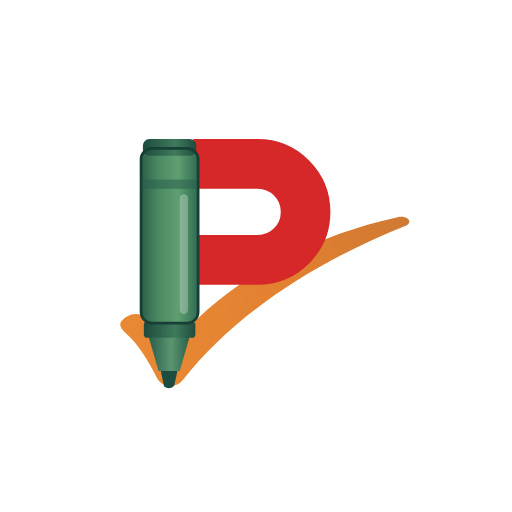
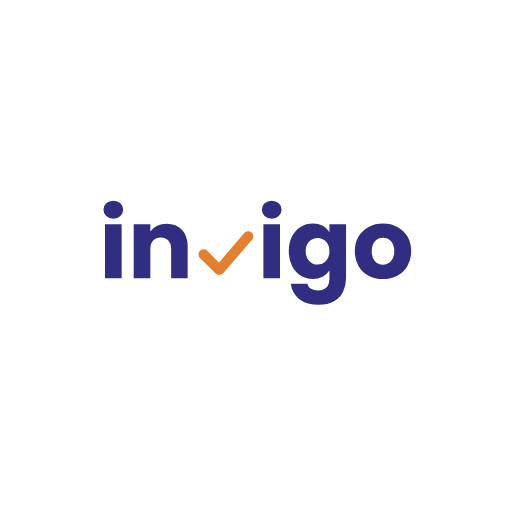
Add files via upload

Changed region(s): [[0.1875, 0.25, 0.8125, 0.7812]]

diff --git a/dashboard.html b/dashboard.html
@@ -3,50 +3,49 @@
 <head>
   <meta charset="utf-8">
   <meta name="viewport" content="width=device-width, initial-scale=1, viewport-fit=cover">
-  <title>Proctcher רכזת</title>
-  <meta name="theme-color" content="#114b3c">
+  <title>Invigo רכזת</title>
+  <meta name="theme-color" content="#312e81">
   <meta name="apple-mobile-web-app-capable" content="yes">
   <meta name="mobile-web-app-capable" content="yes">
-  <meta name="apple-mobile-web-app-title" content="Proctcher רכזת">
+  <meta name="apple-mobile-web-app-title" content="Invigo רכזת">
   <meta name="apple-mobile-web-app-status-bar-style" content="default">
   <link rel="manifest" href="manifest-dashboard.webmanifest">
   <link rel="apple-touch-icon" href="dash-icon-180.png">
   <link rel="icon" type="image/png" sizes="32x32" href="dash-icon-32.png">
   <style>
-    :root { --green: #114b3c; --muted: #64748b; --bg: #ffffff; }
+    :root { --brand: #312e81; --muted: #64748b; --bg: #ffffff; }
     html, body { margin: 0; height: 100%; background: var(--bg); overflow: hidden; }
     body { font-family: -apple-system, BlinkMacSystemFont, "Segoe UI", Arial, sans-serif; }
     #app { position: fixed; top: env(safe-area-inset-top, 0px); left: 0; right: 0; bottom: 0; width: 100%; height: calc(100% - env(safe-area-inset-top, 0px)); border: 0; background: var(--bg); }
     #splash { position: fixed; inset: 0; display: flex; flex-direction: column; align-items: center; justify-content: center; gap: 18px; background: var(--bg); z-index: 2; transition: opacity 0.25s ease; padding: 24px; text-align: center; }
     #splash.gone { opacity: 0; pointer-events: none; }
-    #splash img { width: 112px; height: 112px; border-radius: 26px; box-shadow: 0 6px 22px rgba(17, 75, 60, 0.18); }
-    .name { font-weight: 900; font-size: 22px; color: var(--green); letter-spacing: 0.5px; }
+    #splash img { width: 132px; height: 132px; border-radius: 30px; box-shadow: 0 6px 22px rgba(49, 46, 129, 0.18); }
+    .name { font-weight: 900; font-size: 22px; color: var(--brand); letter-spacing: 0.5px; }
     .msg { color: var(--muted); font-weight: 700; font-size: 15px; line-height: 1.6; max-width: 320px; }
-    .spin { width: 26px; height: 26px; border-radius: 50%; border: 3px solid #d1e7dd; border-top-color: var(--green); animation: s 0.9s linear infinite; }
+    .spin { width: 26px; height: 26px; border-radius: 50%; border: 3px solid #e0e7ff; border-top-color: var(--brand); animation: s 0.9s linear infinite; }
     @keyframes s { to { transform: rotate(360deg); } }
-    button { font: inherit; font-weight: 800; font-size: 16px; color: #ffffff; background: var(--green); border: 0; border-radius: 12px; padding: 12px 22px; cursor: pointer; }
+    button { font: inherit; font-weight: 800; font-size: 16px; color: #ffffff; background: var(--brand); border: 0; border-radius: 12px; padding: 12px 22px; cursor: pointer; }
     .hidden { display: none !important; }
     .foot { position: fixed; bottom: calc(14px + env(safe-area-inset-bottom, 0px)); left: 0; right: 0; text-align: center; color: #94a3b8; font-size: 12px; direction: ltr; }
     /* בקשת הפעלת התראות */
-    #pushBar { position: fixed; left: 12px; right: 12px; bottom: calc(12px + env(safe-area-inset-bottom, 0px)); z-index: 5; background: #ffffff; border: 2px solid #114b3c; border-radius: 16px; box-shadow: 0 10px 30px rgba(15, 23, 42, 0.25); padding: 14px 14px 12px; display: flex; flex-direction: column; gap: 10px; max-width: 460px; margin: 0 auto; font-family: inherit; }
-    #pushBar .t { font-weight: 900; color: #114b3c; font-size: 16px; }
+    #pushBar { position: fixed; left: 12px; right: 12px; bottom: calc(12px + env(safe-area-inset-bottom, 0px)); z-index: 5; background: #ffffff; border: 2px solid #312e81; border-radius: 16px; box-shadow: 0 10px 30px rgba(15, 23, 42, 0.25); padding: 14px 14px 12px; display: flex; flex-direction: column; gap: 10px; max-width: 460px; margin: 0 auto; font-family: inherit; }
+    #pushBar .t { font-weight: 900; color: #312e81; font-size: 16px; }
     #pushBar .s { color: #475569; font-size: 14px; font-weight: 600; line-height: 1.5; }
     #pushBar .row { display: flex; gap: 8px; }
     #pushBar .row button { flex: 1; padding: 11px 10px; font-size: 15px; }
     #pushBar .row .later { background: #f1f5f9; color: #334155; }
-    #pushToast { position: fixed; left: 50%; transform: translateX(-50%); bottom: calc(18px + env(safe-area-inset-bottom, 0px)); z-index: 6; background: #114b3c; color: #ffffff; font-weight: 800; font-size: 14px; border-radius: 12px; padding: 10px 16px; box-shadow: 0 8px 20px rgba(0,0,0,0.2); max-width: 90%; text-align: center; }
+    #pushToast { position: fixed; left: 50%; transform: translateX(-50%); bottom: calc(18px + env(safe-area-inset-bottom, 0px)); z-index: 6; background: #312e81; color: #ffffff; font-weight: 800; font-size: 14px; border-radius: 12px; padding: 10px 16px; box-shadow: 0 8px 20px rgba(0,0,0,0.2); max-width: 90%; text-align: center; }
   </style>
 </head>
 <body>
   <div id="splash">
     <img src="dash-icon-512.png" alt="">
-    <div class="name">PROCTCHER</div>
-    <div id="spin" class="spin"></div>
+        <div id="spin" class="spin"></div>
     <div id="msg" class="msg">טוען את המערכת...</div>
     <button id="retry" class="hidden" type="button">לנסות שוב</button>
     <div class="foot">&copy; 2026 Gali Ben Natan. All rights reserved.</div>
   </div>
-  <iframe id="app" title="Proctcher" allow="clipboard-read; clipboard-write; fullscreen"></iframe>
+  <iframe id="app" title="Invigo" allow="clipboard-read; clipboard-write; fullscreen"></iframe>
   <div id="pushBar" class="hidden" role="dialog" aria-label="הפעלת התראות">
     <div class="t">🔔 התראות מהרכזת</div>
     <div class="s">כדי שהודעות חשובות מהרכזת יופיעו אצלך גם כשהטלפון נעול.</div>

diff --git a/index.html b/index.html
@@ -3,50 +3,49 @@
 <head>
   <meta charset="utf-8">
   <meta name="viewport" content="width=device-width, initial-scale=1, viewport-fit=cover">
-  <title>Proctcher</title>
-  <meta name="theme-color" content="#114b3c">
+  <title>Invigo</title>
+  <meta name="theme-color" content="#312e81">
   <meta name="apple-mobile-web-app-capable" content="yes">
   <meta name="mobile-web-app-capable" content="yes">
-  <meta name="apple-mobile-web-app-title" content="Proctcher">
+  <meta name="apple-mobile-web-app-title" content="Invigo">
   <meta name="apple-mobile-web-app-status-bar-style" content="default">
   <link rel="manifest" href="manifest.webmanifest">
   <link rel="apple-touch-icon" href="icon-180.png">
   <link rel="icon" type="image/png" sizes="32x32" href="icon-32.png">
   <style>
-    :root { --green: #114b3c; --muted: #64748b; --bg: #ffffff; }
+    :root { --brand: #312e81; --muted: #64748b; --bg: #ffffff; }
     html, body { margin: 0; height: 100%; background: var(--bg); overflow: hidden; }
     body { font-family: -apple-system, BlinkMacSystemFont, "Segoe UI", Arial, sans-serif; }
     #app { position: fixed; top: env(safe-area-inset-top, 0px); left: 0; right: 0; bottom: 0; width: 100%; height: calc(100% - env(safe-area-inset-top, 0px)); border: 0; background: var(--bg); }
     #splash { position: fixed; inset: 0; display: flex; flex-direction: column; align-items: center; justify-content: center; gap: 18px; background: var(--bg); z-index: 2; transition: opacity 0.25s ease; padding: 24px; text-align: center; }
     #splash.gone { opacity: 0; pointer-events: none; }
-    #splash img { width: 112px; height: 112px; border-radius: 26px; box-shadow: 0 6px 22px rgba(17, 75, 60, 0.18); }
-    .name { font-weight: 900; font-size: 22px; color: var(--green); letter-spacing: 0.5px; }
+    #splash img { width: 132px; height: 132px; border-radius: 30px; box-shadow: 0 6px 22px rgba(49, 46, 129, 0.18); }
+    .name { font-weight: 900; font-size: 22px; color: var(--brand); letter-spacing: 0.5px; }
     .msg { color: var(--muted); font-weight: 700; font-size: 15px; line-height: 1.6; max-width: 320px; }
-    .spin { width: 26px; height: 26px; border-radius: 50%; border: 3px solid #d1e7dd; border-top-color: var(--green); animation: s 0.9s linear infinite; }
+    .spin { width: 26px; height: 26px; border-radius: 50%; border: 3px solid #e0e7ff; border-top-color: var(--brand); animation: s 0.9s linear infinite; }
     @keyframes s { to { transform: rotate(360deg); } }
-    button { font: inherit; font-weight: 800; font-size: 16px; color: #ffffff; background: var(--green); border: 0; border-radius: 12px; padding: 12px 22px; cursor: pointer; }
+    button { font: inherit; font-weight: 800; font-size: 16px; color: #ffffff; background: var(--brand); border: 0; border-radius: 12px; padding: 12px 22px; cursor: pointer; }
     .hidden { display: none !important; }
     .foot { position: fixed; bottom: calc(14px + env(safe-area-inset-bottom, 0px)); left: 0; right: 0; text-align: center; color: #94a3b8; font-size: 12px; direction: ltr; }
     /* בקשת הפעלת התראות */
-    #pushBar { position: fixed; left: 12px; right: 12px; bottom: calc(12px + env(safe-area-inset-bottom, 0px)); z-index: 5; background: #ffffff; border: 2px solid #114b3c; border-radius: 16px; box-shadow: 0 10px 30px rgba(15, 23, 42, 0.25); padding: 14px 14px 12px; display: flex; flex-direction: column; gap: 10px; max-width: 460px; margin: 0 auto; font-family: inherit; }
-    #pushBar .t { font-weight: 900; color: #114b3c; font-size: 16px; }
+    #pushBar { position: fixed; left: 12px; right: 12px; bottom: calc(12px + env(safe-area-inset-bottom, 0px)); z-index: 5; background: #ffffff; border: 2px solid #312e81; border-radius: 16px; box-shadow: 0 10px 30px rgba(15, 23, 42, 0.25); padding: 14px 14px 12px; display: flex; flex-direction: column; gap: 10px; max-width: 460px; margin: 0 auto; font-family: inherit; }
+    #pushBar .t { font-weight: 900; color: #312e81; font-size: 16px; }
     #pushBar .s { color: #475569; font-size: 14px; font-weight: 600; line-height: 1.5; }
     #pushBar .row { display: flex; gap: 8px; }
     #pushBar .row button { flex: 1; padding: 11px 10px; font-size: 15px; }
     #pushBar .row .later { background: #f1f5f9; color: #334155; }
-    #pushToast { position: fixed; left: 50%; transform: translateX(-50%); bottom: calc(18px + env(safe-area-inset-bottom, 0px)); z-index: 6; background: #114b3c; color: #ffffff; font-weight: 800; font-size: 14px; border-radius: 12px; padding: 10px 16px; box-shadow: 0 8px 20px rgba(0,0,0,0.2); max-width: 90%; text-align: center; }
+    #pushToast { position: fixed; left: 50%; transform: translateX(-50%); bottom: calc(18px + env(safe-area-inset-bottom, 0px)); z-index: 6; background: #312e81; color: #ffffff; font-weight: 800; font-size: 14px; border-radius: 12px; padding: 10px 16px; box-shadow: 0 8px 20px rgba(0,0,0,0.2); max-width: 90%; text-align: center; }
   </style>
 </head>
 <body>
   <div id="splash">
     <img src="icon-512.png" alt="">
-    <div class="name">PROCTCHER</div>
-    <div id="spin" class="spin"></div>
+        <div id="spin" class="spin"></div>
     <div id="msg" class="msg">טוען את המערכת...</div>
     <button id="retry" class="hidden" type="button">לנסות שוב</button>
     <div class="foot">&copy; 2026 Gali Ben Natan. All rights reserved.</div>
   </div>
-  <iframe id="app" title="Proctcher" allow="clipboard-read; clipboard-write; fullscreen"></iframe>
+  <iframe id="app" title="Invigo" allow="clipboard-read; clipboard-write; fullscreen"></iframe>
   <div id="pushBar" class="hidden" role="dialog" aria-label="הפעלת התראות">
     <div class="t">🔔 התראות מהרכזת</div>
     <div class="s">כדי שהודעות חשובות מהרכזת יופיעו אצלך גם כשהטלפון נעול.</div>

diff --git a/sw.js b/sw.js
@@ -1,6 +1,6 @@
-// Proctcher App: שומר את מעטפת האפליקציה בטלפון כדי שתיפתח מהר.
+// Invigo: שומר את מעטפת האפליקציה בטלפון כדי שתיפתח מהר.
 // המערכת עצמה (Google Apps Script) תמיד נטענת מהרשת ולא נשמרת כאן.
-const CACHE = 'proctcher-shell-v6';
+const CACHE = 'invigo-shell-v7';
 const SHELL = ['./', './index.html', './dashboard.html', './manifest.webmanifest', './manifest-dashboard.webmanifest', './icon-180.png', './icon-192.png', './icon-512.png', './maskable-512.png', './icon-32.png', './dash-icon-180.png', './dash-icon-192.png', './dash-icon-512.png', './dash-maskable-512.png', './dash-icon-32.png'];
 
 self.addEventListener('install', e => {
@@ -29,7 +29,7 @@ self.addEventListener('push', e => {
   let d = {};
   try { const j = e.data ? e.data.json() : {}; d = j.data || j.notification || j || {}; }
   catch (x) { try { d = { body: e.data ? e.data.text() : '' }; } catch (y) {} }
-  const title = d.title || 'Proctcher';
+  const title = d.title || 'Invigo';
   e.waitUntil(self.registration.showNotification(title, {
     body: d.body || '',
     icon: 'icon-192.png',
